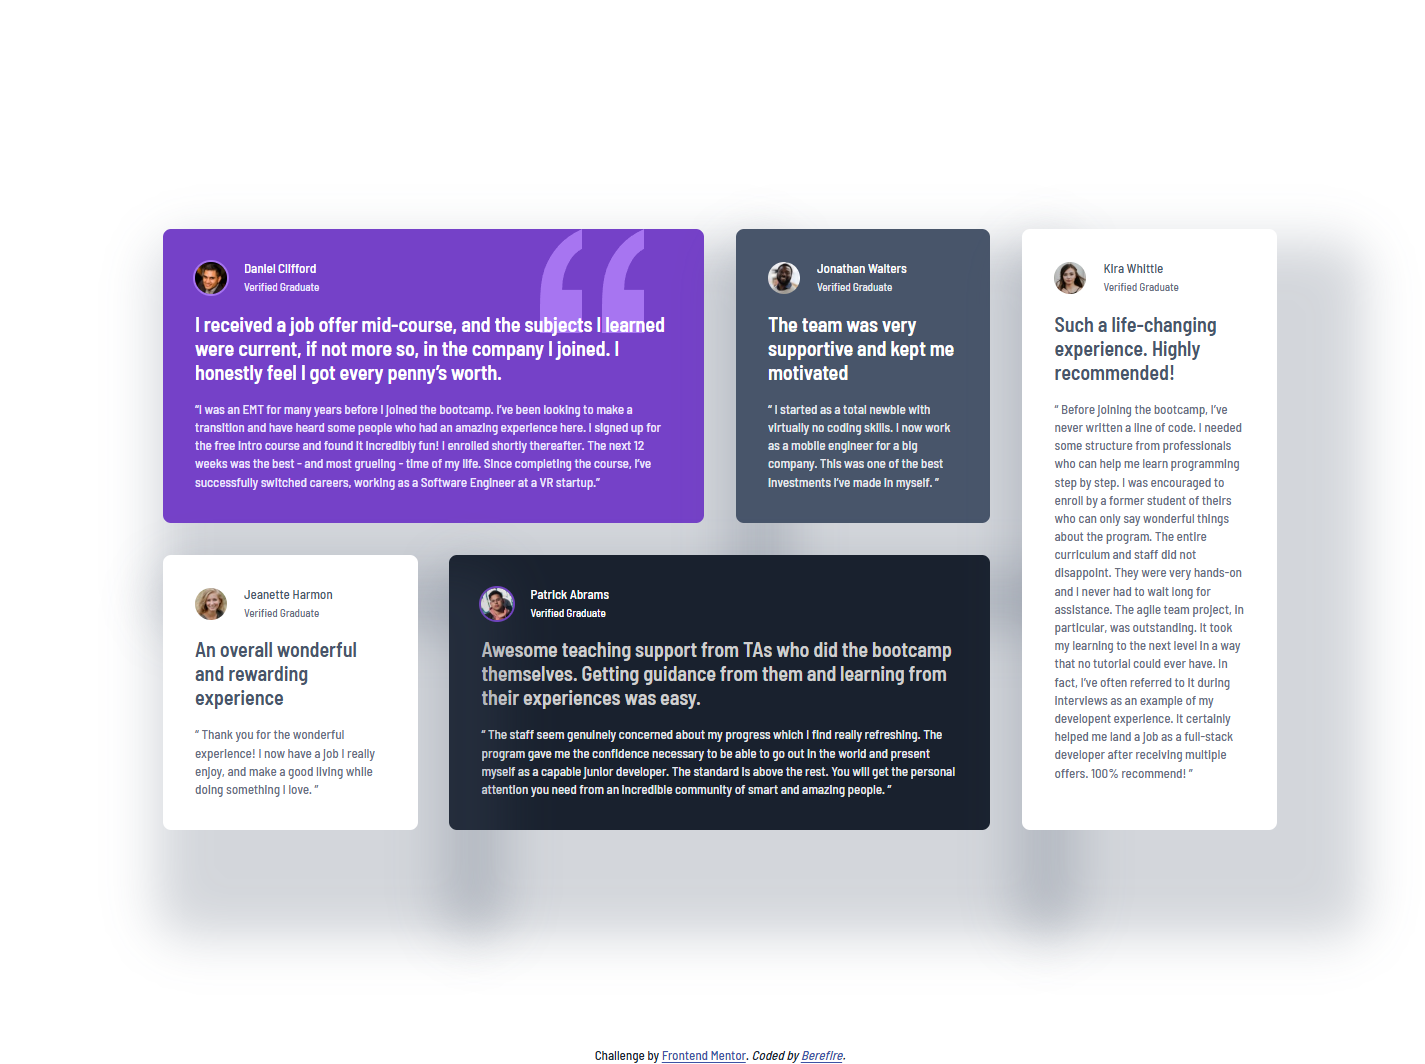
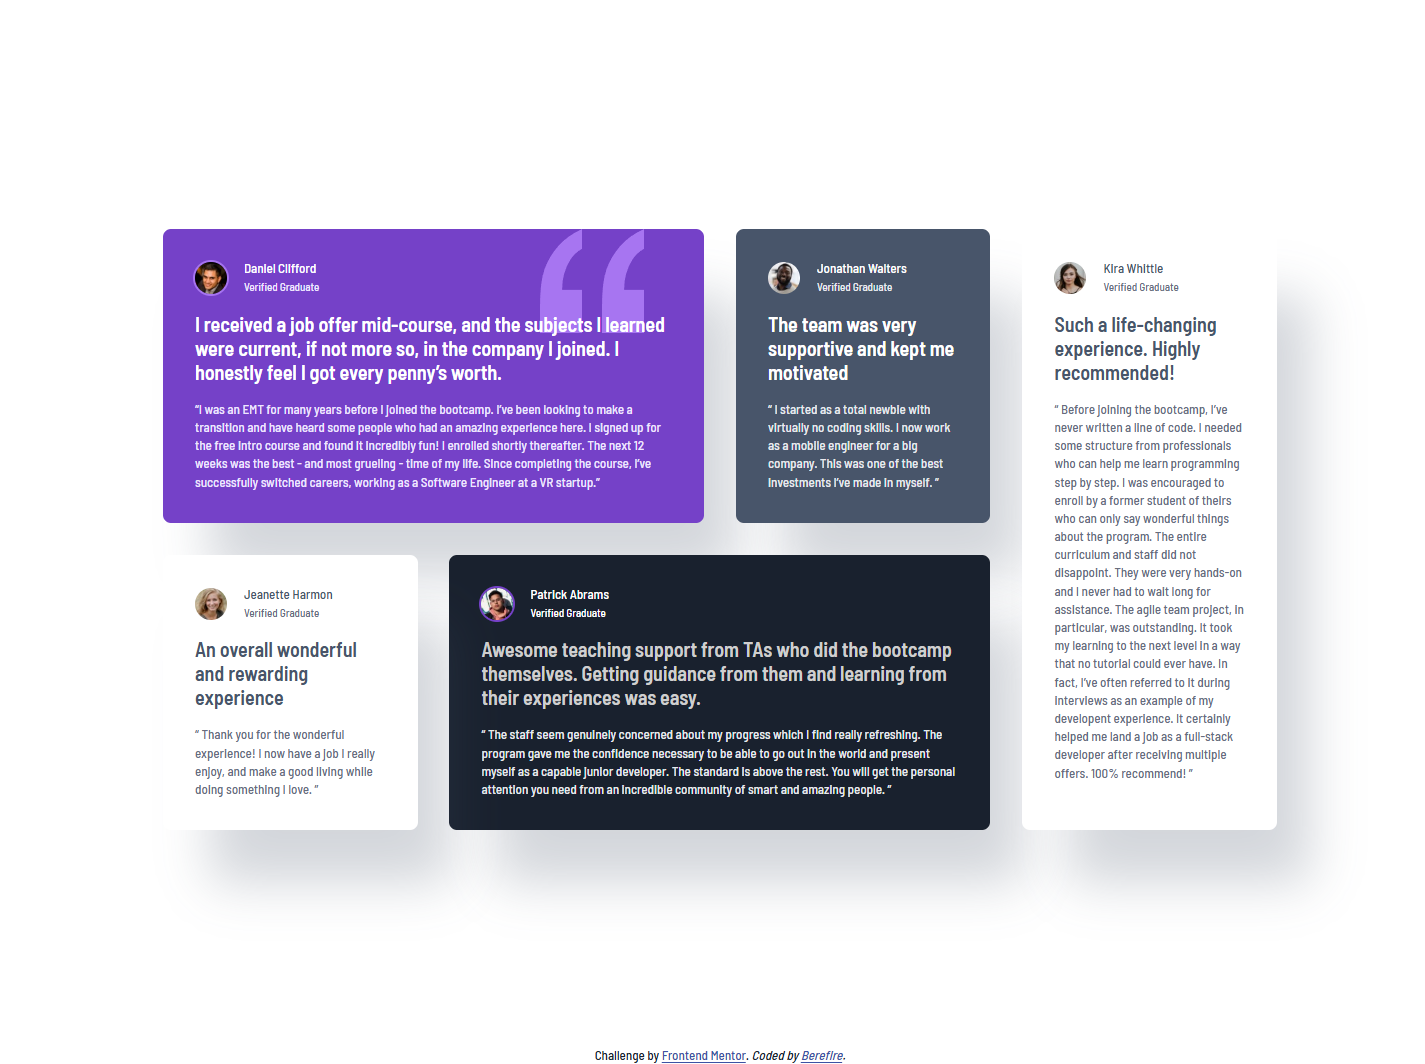
fix(styles): adjust card shadow to prevent overlap between grid items

Changed region(s): [[0.0926, 0.2171, 0.9572, 0.8994], [0.494, 0.2171, 0.5867, 0.5273], [0.0926, 0.4652, 0.1544, 0.6203]]

diff --git a/css/base/tokens.css b/css/base/tokens.css
@@ -72,7 +72,7 @@
     --quotation-offset-inline: 12.6154rem;   /* 164px */
 
     /* Box-shadow */
-     --shadow-black-soft: 3.08rem 4.62rem 3.85rem 3.62rem rgba(72, 85, 106, 0.24);
+     --shadow-black-soft: 3.08rem 4.62rem 3.85rem -0.5rem rgba(72, 85, 106, 0.24);
 
     /* Border thickness */
     --border-width-s: 0.1538rem;
